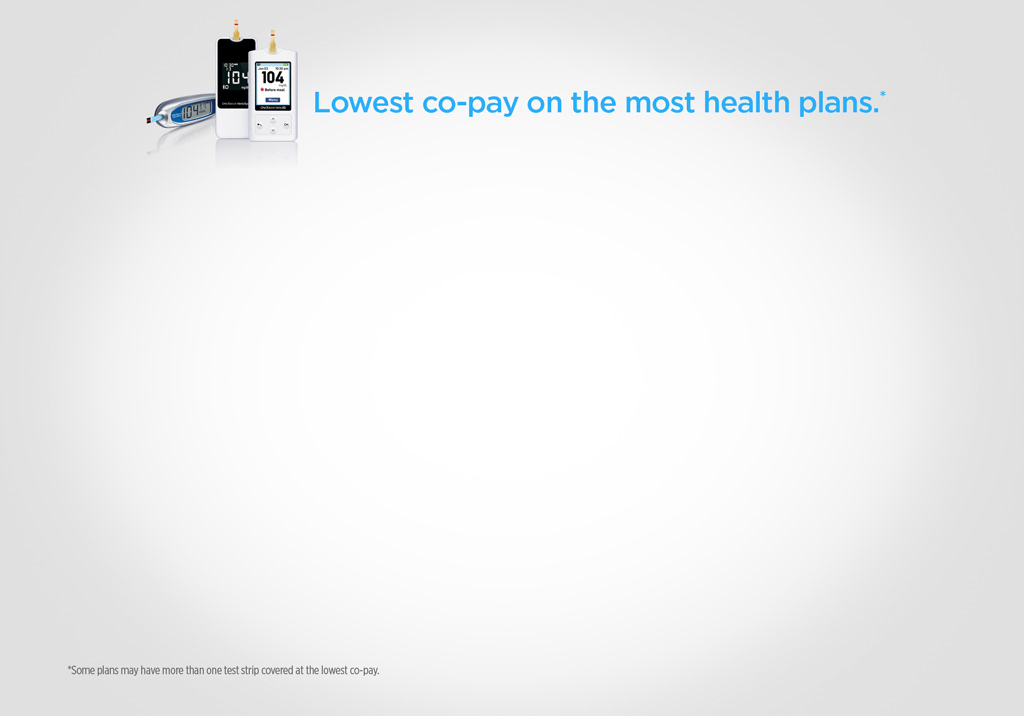
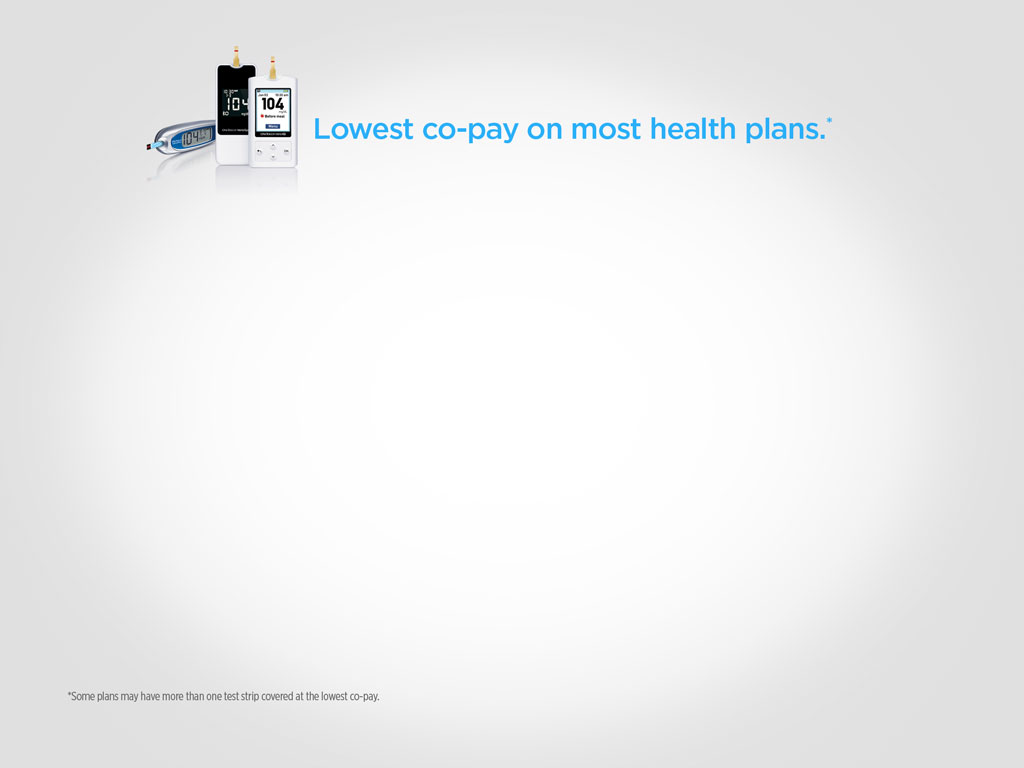
fix font issue in ultramini

Changed region(s): [[0.125, 0.0307, 0.875, 0.2151], [0.0625, 0.8911, 0.375, 0.9525]]

diff --git a/salesaid/ultramini/res/css/type.css b/salesaid/ultramini/res/css/type.css
@@ -95,14 +95,14 @@
 
 /* Subheadings ----------------------------------------- */
 .subhead1{
-	font-family: Gotham-Medium;
+	font-family: Gotham-Bold;
 	font-size: 16px;
 	line-height:16px;
 	padding:0px;
 	margin:0 0 4px 0;
 }
 .subhead2{
-	font-family: Gotham-Medium;
+	font-family: Gotham-Book;
 	font-size: 14px;
 	line-height:14px;
 	padding:0px;

diff --git a/salesaid/veriosync/slide-4.0.html b/salesaid/veriosync/slide-4.0.html
@@ -18,6 +18,7 @@
     
     <header>
       <nav>
+	<a><img id="btn-home" src="res/images/global/btn-home.png" /></a>
 	<a><img id="btn-coverage" src="res/images/global/btn-coverage.png" /></a>
 	<a><img id="btn-portfolio" src="res/images/global/btn-portfolio.png" /></a>
       </nav>
